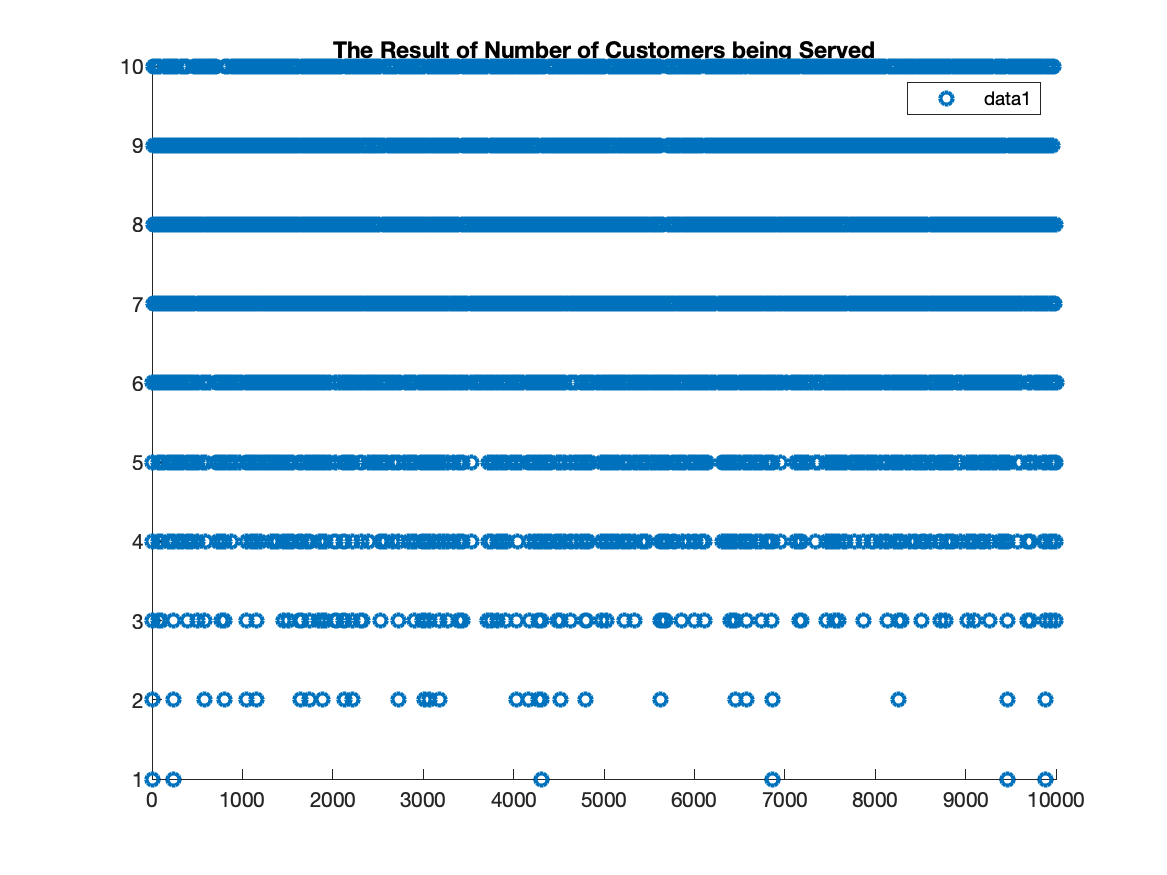
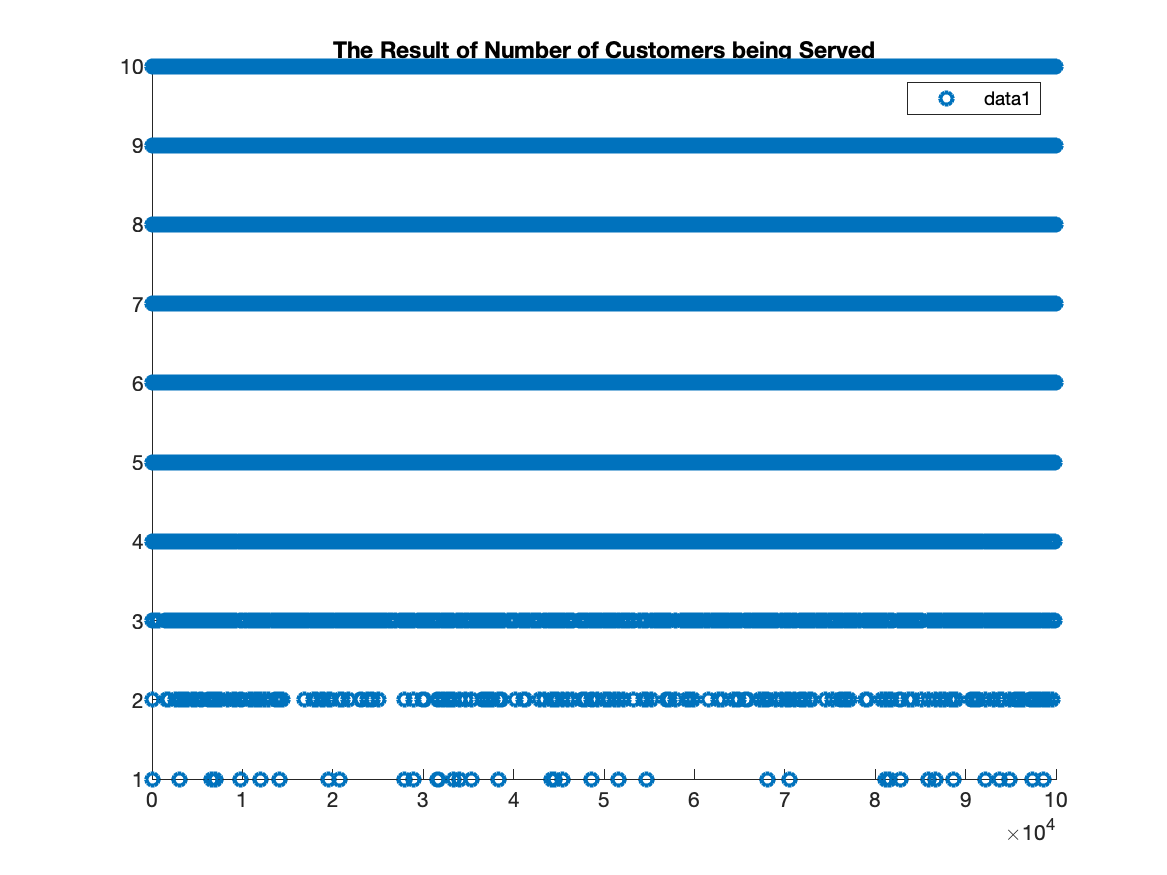
update

diff --git a/exercise4/test.m b/exercise4/test.m
@@ -5,30 +5,11 @@
 % ######################################################################################################################
 % 1,  Define Basic Parameters
 nServer = 10;
-nCustomer = 10000;  % 10000;
+nCustomer = 100000;  % 10000;
 clockSimZero = 0;
 % 2,  Define Functions for Length of Arrival Interval and Serve Time
-whiFuncArrive = "exp";
-whiFuncServe = "exp";
-if whiFuncArrive == "exp"
-    mu = 1;
-    funcArrive = @exprnd;
-    vecParaArrive = mu;
-elseif  whiFuncArrive == "cons"
-    cons = 10;
-    funcArrive = @(cons) cons;
-    vecParaArrive = cons;
-end
-% gamrnd(nServer, 1 / nServer);
-if whiFuncServe == "exp"
-    lambda = 8;
-    funcServe = @exprnd;
-    vecParaServe = lambda;
-elseif  whiFuncServe == "cons"
-    cons = 10;
-    funcServe = @(cons) cons;
-    vecParaServe = cons;
-end
+[funcArrive, vecParaArrive] = getFunc("expArrive");
+[funcServe, vecParaServe] = getFunc("expServe");
 % 3,  Begin `numSim`-Times Simulations
 nEvent = nCustomer;
 [b, sState] = simDiscreteEvent(clockSimZero, nServer, nEvent, funcArrive, funcServe, vecParaArrive, vecParaServe);
@@ -36,7 +17,23 @@ plotLine([1:nEvent], [sState.nCustomerBlock], ...
     '2.png', "The Result of Number of Blocked Customers");
 plotScatter([1:nEvent], [sState.nCustomerServe], ...
     '3.png', "The Result of Number of Customers being Served");
-[bCap] = calErlangsFormula(lambda, mu, nServer);
+[bCap] = calErlangsFormula(8, 1, nServer);
 plotLine([1:nEvent], [sState.b; ones(1, nEvent) * bCap], '4.png', "The Result of the Probability a Customer is Blocked");
 matTimeDepart = [sState.vecTimeDepart];
-% ######################################################################################################################
+% 6,  Functions ########################################################################################################
+function [func, vecPara] = getFunc(whiFunc)
+    if whiFunc == "expArrive"
+        mu = 1;
+        func = @exprnd;
+        vecPara = mu;
+    elseif whiFunc == "expServe"
+        lambda = 8;
+        func = @exprnd;
+        vecPara = lambda;
+    elseif  whiFunc == "cons"
+        cons = 10;
+        func = @(cons) cons;
+        vecPara = cons;
+    end
+    fprintf("Func: %s.\n", whiFunc);
+end

diff --git a/exercise4/setup.m b/exercise4/setup.m
@@ -8,8 +8,9 @@
 addpath("~/Documents/GitHub/StochasticSim/exercise4")
 % 1,  Define Basic Parameters ##########################################################################################
 nServer = 10;
-nCustomer = 10000;
-nSim = 100;
+nCustomer = 100000;
+nSim = 10;
+nStable = nCustomer * 0.01;
 clockSimZero = 0;
 % 2,  Define Functions for Length of Arrival Intervals and Serving Time ################################################
 [funcArrive, vecParaArrive] = getFunc("expArrive");
@@ -17,11 +18,13 @@ clockSimZero = 0;
 % 3,  Begin `nSim`-Times Simulations ###################################################################################
 tic
 nEvent = nCustomer;
+vecResultProbRaw = zeros(nSim, 1);
 vecResultProb = zeros(nSim, 1);
 vecY = zeros(nSim, 1);
 for i = 1:nSim
-    [vecResultProb(i), sState] = simDiscreteEvent(clockSimZero, nServer, nEvent, funcArrive, funcServe, ...
+    [vecResultProbRaw(i), sState] = simDiscreteEvent(clockSimZero, nServer, nEvent, funcArrive, funcServe, ...
         vecParaArrive, vecParaServe);
+    vecResultProb(i) = (sState(nEvent).nCustomerBlock - sState(nStable).nCustomerBlock) / (nEvent - nStable);
     vecY(i) = mean([sState.intervalArrive]);
 end
 toc
@@ -31,10 +34,10 @@ fprintf("Simulation: var(b) = %f.\n", var(vecResultProb));
 [boundLower, boundUpper] = calConfInterval(vecResultProb);
 fprintf("Simulation: lowerConfiInterval(b) = %f.\n", boundLower);
 fprintf("Simulation: upperConfiInterval(b) = %f.\n", boundUpper);
-[bCap] = calErlangsFormula(lambda, mu, nServer);
-fprintf("Analysis: prob that the customer gets blocked = %f.\n", bCap);
+[bCap] = calErlangsFormula(8, 1, nServer);
+fprintf("Analysis: b = %f.\n", bCap);
 % 5,  Control Variate ##################################################################################################
-expectY = mu;
+expectY = 1;
 vecX = vecResultProb;
 vecZ = zeros(nSim, 1);
 covXY = cov(vecX, vecY);

diff --git a/exercise4/calConfInterval.m b/exercise4/calConfInterval.m
@@ -5,6 +5,6 @@ function [ boundLower, boundUpper ] = calConfInterval(vecResult)
     n = length(vecResult);
     expect = mean(vecResult);
     sCapSquare = (sum(vecResult.^2) - n * expect^2) / (n - 1);
-    boundLower = expect + sqrt(sCapSquare / n) * tpdf(n - 1, 0.05 / 2);
-    boundUpper = expect + sqrt(sCapSquare / n) * tpdf(n - 1, 1 - 0.05 / 2);
+    boundLower = expect + sqrt(sCapSquare / n) * tpdf(0.05 / 2, n - 1);
+    boundUpper = expect - sqrt(sCapSquare / n) * tpdf(0.05 / 2, n - 1);
 end  % function
